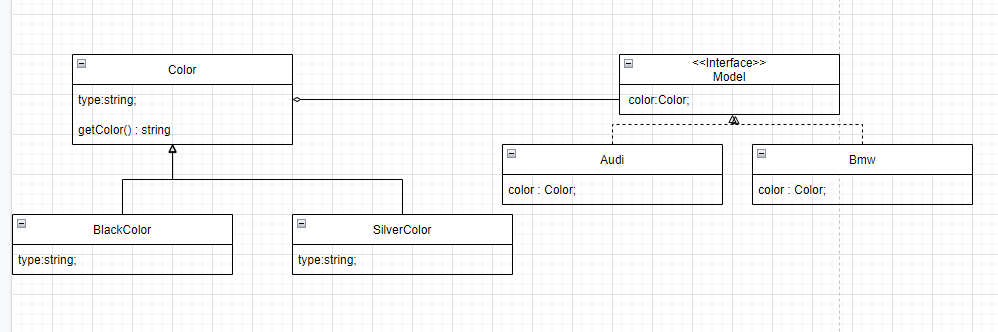
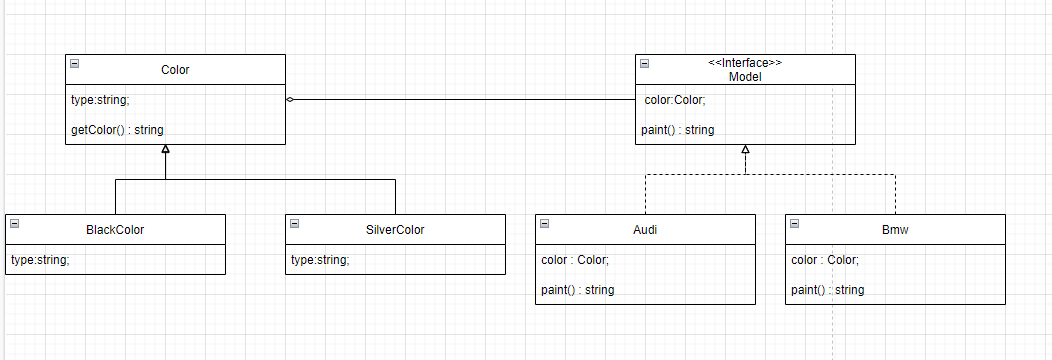
Flywaight

diff --git a/TS_Flywaight/app.js b/TS_Flywaight/app.js
@@ -1,0 +1,48 @@
+var AutoContext = /** @class */ (function () {
+    function AutoContext(model, color) {
+        this.model = model;
+        this.color = color;
+    }
+    AutoContext.prototype.show = function () {
+        console.log(this.model.getModel(), this.color);
+    };
+    return AutoContext;
+}());
+var Auto = /** @class */ (function () {
+    function Auto(model) {
+        this.model = model;
+    }
+    Auto.prototype.getModel = function () {
+        return this.model;
+    };
+    return Auto;
+}());
+var AutoFactory = /** @class */ (function () {
+    function AutoFactory() {
+        this.models = [];
+    }
+    AutoFactory.prototype.create = function (name) {
+        var model = this.models[name];
+        if (model)
+            return model;
+        console.count("model");
+        this.models[name] = new Auto(name);
+        return this.models[name];
+    };
+    AutoFactory.prototype.getModels = function () {
+        console.table(this.models);
+    };
+    return AutoFactory;
+}());
+var factory = new AutoFactory();
+var bmw = new AutoContext(factory.create("BMW"), "black");
+bmw.show();
+var bmwWhite = new AutoContext(factory.create("BMW"), "White");
+bmwWhite.show();
+var audi = new AutoContext(factory.create("Audi"), "black");
+audi.show();
+var audiSilver = new AutoContext(factory.create("Audi"), "silver");
+audiSilver.show();
+// const tesla = factory.create("Tesla");
+// const blackTesla = factory.create("Tesla");
+console.log(factory.getModels());

diff --git a/TS_Flywaight/app.ts b/TS_Flywaight/app.ts
@@ -1,0 +1,66 @@
+class AutoContext{
+    model : Auto;
+    color: string;
+
+    constructor(model : Auto,color: string){
+        this.model = model;
+        this.color = color;
+    }
+
+    show() : void{
+        console.log(this.model.getModel(),this.color);
+    }
+}
+
+
+
+
+class Auto {
+    model : string;
+
+    constructor(model : string){
+        this.model = model;
+    }
+
+    getModel():string{
+        return this.model;
+    }
+}
+
+
+class AutoFactory{
+    models : Array<Auto>;
+
+    constructor(){
+        this.models = [];
+    }
+
+    create(name : string) : Auto{
+        let model = this.models[name];
+        if(model) return model;
+        console.count("model");
+        this.models[name] = new Auto(name);
+        return this.models[name];
+    }
+
+    getModels() : void{
+        console.table(this.models);
+    }
+}
+
+
+const factory = new AutoFactory();
+const bmw = new AutoContext(factory.create("BMW"),"black");
+bmw.show();
+const bmwWhite = new AutoContext(factory.create("BMW"),"White");
+bmwWhite.show();
+const audi = new AutoContext(factory.create("Audi"),"black");
+audi.show();
+const audiSilver = new AutoContext(factory.create("Audi"),"silver");
+audiSilver.show();
+// const tesla = factory.create("Tesla");
+// const blackTesla = factory.create("Tesla");
+
+console.log(factory.getModels());
+
+

diff --git a/TS_Bridge/app.ts b/TS_Bridge/app.ts
@@ -1,5 +1,6 @@
 interface Model{//реализация
     color:Color;
+    paint() : string;
 }
 
 class Color{//абстракция 
